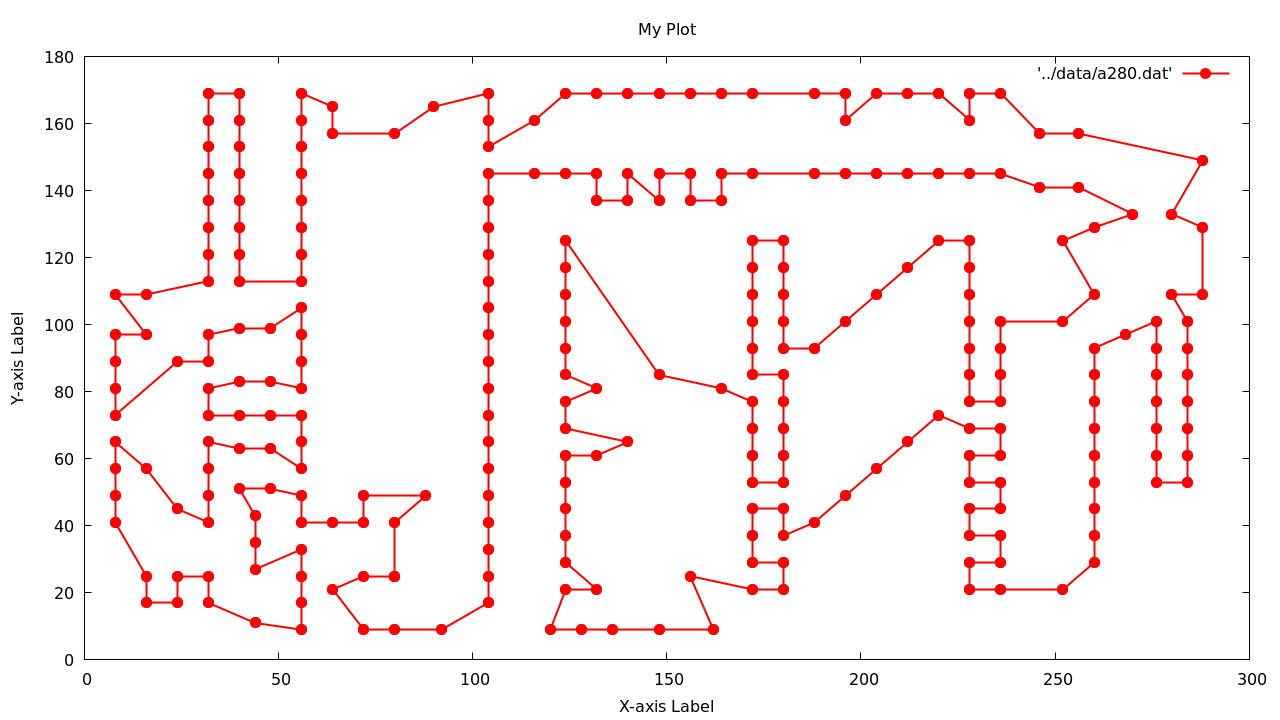
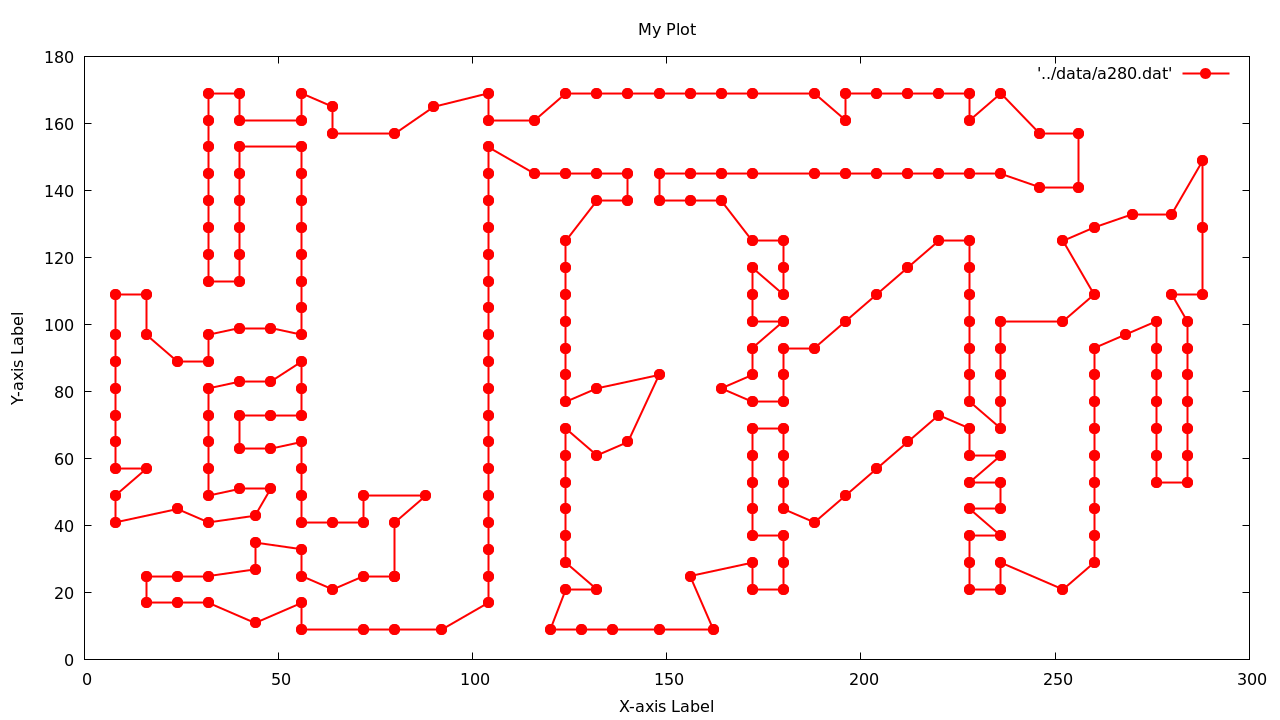
complete vns and tabu

diff --git a/src/metaheuristics.c b/src/metaheuristics.c
@@ -46,78 +46,10 @@ void tabu_search(instance* inst) {
         //OPTIMIZATION PART
         //----------
 
-        //perform 2-opt considering tabu nodes
-        /*int improve = 1;
-        while(improve) {
-            improve = 0;
-
-            double best_delta = 0;
-
-            //loop through all edges
-            for(int i=0; i<inst->nnodes-1; ++i) {
-                //skip tabu node
-                if(tnow - tabu_vector[i] <= tenure || tnow-tabu_vector[curr_solution[i]] <= tenure)
-                    continue;
-
-                for(int j=i+1; j<inst->nnodes; ++j) {
-                    //skip consecutive edges
-                    if(curr_solution[i] == j || curr_solution[j] == i)
-                        continue;
-
-                    //skip tabu nodes
-                    if(tnow - tabu_vector[j] <= tenure || tnow - tabu_vector[curr_solution[j]] <= tenure)
-                        continue;
-
-                    //current edges weight of A-D and C-B
-                    double curr_weight = get_cost(i, curr_solution[i], inst) + get_cost(j, curr_solution[j], inst);
-                    //weight considering new edges C-A and B-D
-                    double new_weight = get_cost(j, i, inst) + get_cost(curr_solution[j], curr_solution[i], inst);
-                    double delta = curr_weight - new_weight;
-
-                    //save new best edges to swap
-                    if(new_weight < curr_weight && delta > best_delta) {
-                        //printf("New better edge found between (%d, %d) and (%d, %d) with delta = [%f]\n", j, i, curr_solution[j], curr_solution[i], delta);
-                        improve = 1;
-                        nodeA = i;
-                        nodeC = j;
-                        nodeD = curr_solution[i];
-                        nodeB = curr_solution[j];
-                        best_delta = delta;
-                    }
-                }
-            }
-            if(!improve)
-                break;
-
-            //reverse path from node B to node A
-            int prev = nodeB;
-            int node = curr_solution[nodeB];
-            while(node != nodeD) {
-                int next_node = curr_solution[node];
-                curr_solution[node] = prev;
-                prev = node;
-                //update node
-                node = next_node;
-            }
-
-            //set new edges C-A  and B-D
-            curr_solution[nodeB] = nodeD;
-            curr_solution[nodeC] = nodeA;
-
-            check_solution(curr_solution, inst->nnodes);
-
-            //update objective
-            curr_obj -= best_delta;
-
-            //update best solution
-            if(curr_obj < best_obj) {
-                best_obj = curr_obj;
-                memcpy(best_solution, curr_solution, inst->nnodes * sizeof(int));
-            }
-        }*/
         curr_obj = alg_2opt(inst, curr_solution);
 
         if(curr_obj < best_obj) {
+            //printf("BETTER SOLUTION FOUND WITH Z = %f\n", curr_obj);
             best_obj = curr_obj;
             memcpy(best_solution, curr_solution, inst->nnodes * sizeof(int));
         }
@@ -167,4 +99,51 @@ void tabu_search(instance* inst) {
     free(best_solution);
     free(curr_solution);
     free(tabu_vector);
+}
+
+void vns(instance* inst) {
+    //track execution time
+    time_t start, end;
+    time(&start);
+
+    //best objective and solution
+    double best_obj = inst->zbest;
+    int* best_solution = calloc(inst->nnodes, sizeof(int));
+
+    //current objective and solution
+    double curr_obj = inst->zbest;
+    int* curr_solution = calloc(inst->nnodes, sizeof(int));
+    memcpy(curr_solution, inst->best_sol, inst->nnodes * sizeof(int));
+
+    int i = 0;
+    
+    while(1) {
+        time(&end);
+        if(difftime(end, start) > inst->timelimit)
+            break;
+
+        progressbar((int) difftime(end, start), inst->timelimit);
+
+        //Optimization part
+        curr_obj = alg_2opt(inst, curr_solution);
+
+        if(curr_obj < best_obj) {
+            printf("BETTER SOLUTION FOUND WITH Z = %f\n", curr_obj);
+            best_obj = curr_obj;
+            memcpy(best_solution, curr_solution, inst->nnodes * sizeof(int));
+        }
+
+        //Double 3 opt move
+        shake(inst, curr_solution);
+        shake(inst, curr_solution);
+    }
+
+    check_solution(best_solution, inst->nnodes);
+
+    memcpy(inst->best_sol, best_solution, inst->nnodes * sizeof(int));
+
+    printf("FINAL BEST OBJECTIVE = [%f]\n", best_obj);
+
+    free(best_solution);
+    free(curr_solution);
 }

diff --git a/src/utils.c b/src/utils.c
@@ -1,4 +1,5 @@
 #include "utils.h"
+#include "plot.h"
 
 int imax(int i1, int i2) {
 	return (i1 > i2) ? i1 : i2;
@@ -306,19 +307,96 @@ void update_solution(double z, int* solution, instance* inst) {
 
 void check_solution(int* solution, int length) {
 	int* check_array = calloc(length, sizeof(int));
-	int ret_value = 1;
 
 	for(int i=0; i<length; ++i) {
-		check_array[solution[i]] = 1;
+		check_array[i] = 0;
 	}
 
 	for(int i=0; i<length; ++i) {
-		if(check_array[i] != 1)
+		check_array[solution[i]]++;
+	}
+
+	for(int i=0; i<length; ++i) {
+		if(check_array[i] != 1) {
 			debug("TSP solution not valid");
+			break;
+		}
 	}
 
 	free(check_array);
 	//debug("TSP solution is valid");
+}
+
+void shake(instance* inst, int* input_solution) {
+    double z = 0;
+
+    int idx1 = rand() % inst->nnodes;
+    int idx2=idx1;
+    int idx3=idx1;
+    while(idx2==idx1 || abs(idx1-idx2)<=1){    // no same node and not successor or predecessor idx1
+        idx2=rand() % inst->nnodes;
+        
+    }
+    while(idx3==idx1 || idx3==idx2 || abs(idx1-idx3)<=1 || abs(idx2-idx3)<=1){
+        idx3=rand() % inst->nnodes;
+    }
+    //put them in order
+    if(idx1>idx2){
+        swap(&idx1, &idx2);
+    }
+    if(idx1>idx3){
+        swap(&idx1, &idx3);
+    }   
+    if(idx2>idx3){
+        swap(&idx2, &idx3);
+    }
+    //printf("idx1 = %d, idx2 = %d, idx3 = %d\n", idx1, idx2, idx3);
+
+    int* tour = calloc(inst->nnodes, sizeof(int));
+    int node = input_solution[0];
+    for(int i=0; i<inst->nnodes; ++i) {
+        tour[i] = node;
+        node = input_solution[node];
+    }
+
+    //choose the nodes that are involved in the swap edges procedure
+    int nodeA = tour[idx1];
+    int nodeB = input_solution[nodeA];
+    int nodeC = tour[idx2];
+    int nodeD = input_solution[nodeC];
+    int nodeE = tour[idx3];
+    int nodeF = input_solution[nodeE];
+
+    //printf("EDGES [%d-%d] [%d-%d] [%d-%d]\n", nodeA, nodeB, nodeC, nodeD, nodeE, nodeF);
+
+    //case 7
+    input_solution[nodeA] = nodeD; //succ of A is D
+    input_solution[nodeE] = nodeB; //succ of E is B
+    input_solution[nodeC] = nodeF; //succ of C is F
+
+    //printf("NEW EDGES [%d-%d] [%d-%d] [%d-%d]\n", nodeA, solution[nodeA], nodeC, solution[nodeC], nodeE, solution[nodeE]);
+    
+    check_solution(input_solution, inst->nnodes);
+    
+    compute_distances(inst);
+
+    //debug_plot(inst, solution);
+
+    
+    //compute the new cost 
+    for(int i=0; i<inst->nnodes; i++) {
+        z += get_cost(i, input_solution[i], inst);
+    }
+
+    //printf("New cost after shake: %f\n", z);
+
+    free(tour);
+}
+
+void swap(int* a, int* b) {
+	int tmp = *a;
+	*a = *b;
+	*b = tmp;
 }
 
 void free_instance(instance *inst) {
@@ -350,6 +428,13 @@ void print_help(){
     printf("-time_limit <time>        The time limit in seconds\n");
 	printf("-seed <seed>              The seed for random number generation\n");
 	printf("-verbose <level>          It displays detailed processing information on the screen\n");
+}
+
+void debug_plot(instance* inst, int* input_solution) {
+	memcpy(inst->best_sol, input_solution, inst->nnodes * sizeof(int));
+    plot_solution(inst);
+    printf("ENTER to continue");
+    getchar();
 }
 
 void progressbar(int progress, int total) {

diff --git a/src/heuristics.c b/src/heuristics.c
@@ -287,10 +287,6 @@ void grasp_iterative(instance* inst) {
 }
 
 double alg_2opt(instance* inst, int* input_solution) {
-    //get instance solution and objective value
-    //int* solution = calloc(inst->nnodes, sizeof(int));
-    //memcpy(solution, inst->best_sol, inst->nnodes * sizeof(int));
-
     double z;
     for(int i=0; i<inst->nnodes; ++i)
         z += get_cost(i, input_solution[i], inst);
@@ -322,8 +318,9 @@ double alg_2opt(instance* inst, int* input_solution) {
                 double delta = curr_weight - new_weight;
 
                 //save new best edges to swap
-                if(new_weight < curr_weight && delta > best_delta) {
-                    //printf("New better edge found between (%d, %d) and (%d, %d) with delta = [%f]\n", j, i, solution[j], solution[i], delta);
+                if(delta > best_delta) {
+                    //printf("Previous edges (%d-%d) (%d-%d)\n", i, input_solution[i], j, input_solution[j]);
+                    //printf("New better edge found between (%d, %d) and (%d, %d) with delta = [%f]\n", j, i, input_solution[j], input_solution[i], delta);
                     improve = 1;
                     nodeA = i;
                     nodeC = j;
@@ -336,16 +333,7 @@ double alg_2opt(instance* inst, int* input_solution) {
         if(!improve)
             break;
 
-        //reverse path from node B to node A
-        int prev = nodeB;
-        int node = input_solution[nodeB];
-        while(node != nodeD) {
-            int next_node = input_solution[node];
-            input_solution[node] = prev;
-            prev = node;
-            //update node
-            node = next_node;
-        }
+        reverse_path(input_solution, nodeB, nodeA);
 
         //set new edges C-A B-D
         input_solution[nodeB] = nodeD;
@@ -365,6 +353,13 @@ double alg_2opt(instance* inst, int* input_solution) {
 }
 
 void greedy_2opt(instance* inst, int start_node) {
-    //TODO implement greedy + 2opt
     greedy(inst, start_node);
+
+    int* curr_solution = calloc(inst->nnodes, sizeof(int));
+    memcpy(curr_solution, inst->best_sol, inst->nnodes * sizeof(int));
+
+    double z = alg_2opt(inst, curr_solution);
+    update_solution(z, curr_solution, inst);
+
+    free(curr_solution);
 }

diff --git a/include/utils.h b/include/utils.h
@@ -168,6 +168,22 @@ void update_solution(double z, int* solution, instance* inst);
 void check_solution(int* solution, int length);
 
 /**
+ * Perform a 3-opt move on the input_instance
+ * 
+ * @param inst model instance
+ * @param input_solution input solution
+*/
+void shake(instance* inst, int* input_solution);
+
+/**
+ * Swap two integer elements
+ * 
+ * @param a first integer
+ * @param b second integer
+*/
+void swap(int* a, int* b);
+
+/**
  * Free memory regarding the tsp instance
  * 
  * @param inst tsp model instance
@@ -185,6 +201,14 @@ void print_instance(instance* inst);
  * Print info about command line arguments
 */
 void print_help();
+
+/**
+ * Plot intermediate solutions for debug purpose
+ * 
+ * @param inst model instance
+ * @param input_solution current solution
+*/
+void debug_plot(instance* inst, int* input_solution);
 
 /**
  * Print a progress bar

diff --git a/src/main.c b/src/main.c
@@ -26,15 +26,19 @@ int main(int argc, char** argv) {
     compute_distances(&inst);
 
     //execute algorithm
-    greedy(&inst, 20);
+    greedy(&inst, 0);
     //greedy_iterative(&inst);
 
     //extra_mileage(&inst);
     
     //alg_2opt(&inst);
 
-    tabu_search(&inst);
+    //greedy_2opt(&inst, 20);
+
+    //tabu_search(&inst);
     
+    vns(&inst);
+
     //grasp_iterative(&inst);
 
     //plot tsp instance

diff --git a/include/metaheuristics.h b/include/metaheuristics.h
@@ -10,3 +10,10 @@
  * @param inst model instance
 */
 void tabu_search(instance* inst);
+
+/**
+ * VNS algorithm
+ * 
+ * @param inst model isntance
+*/
+void vns(instance* inst);
